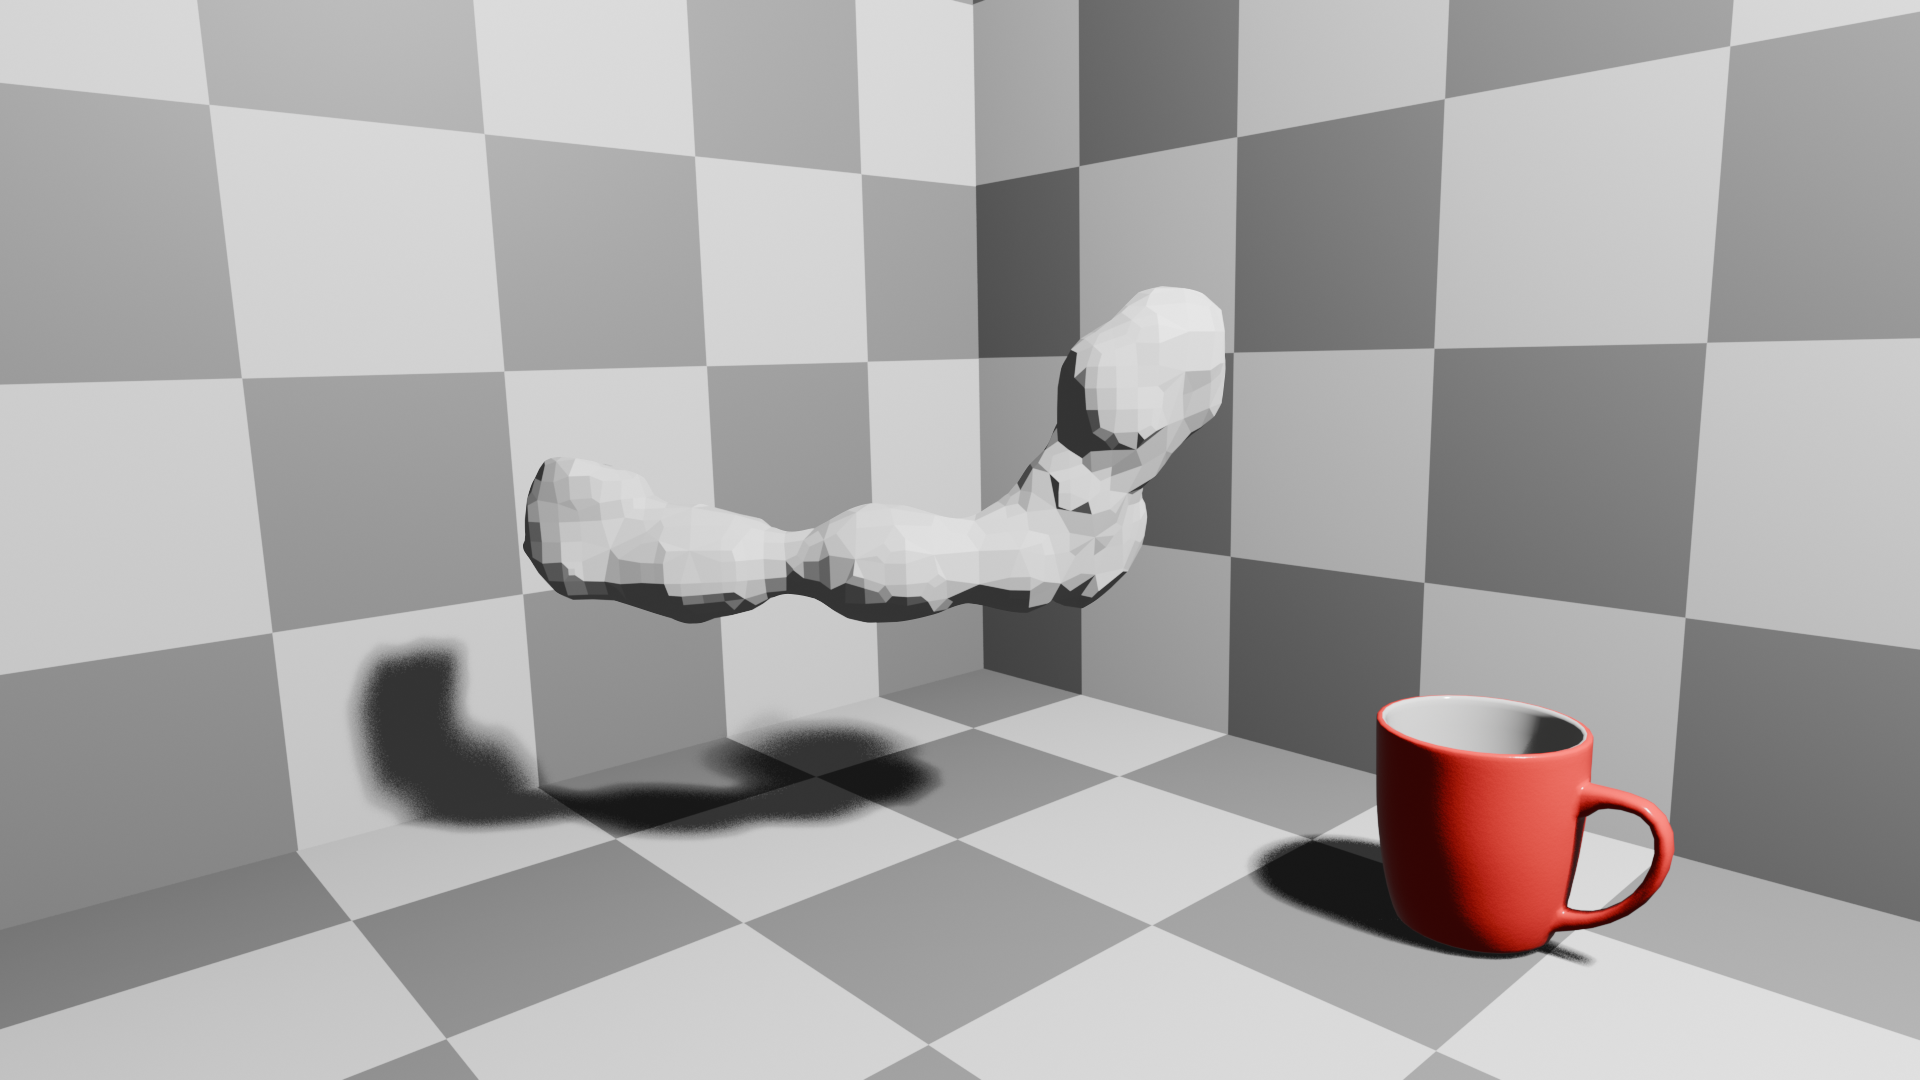
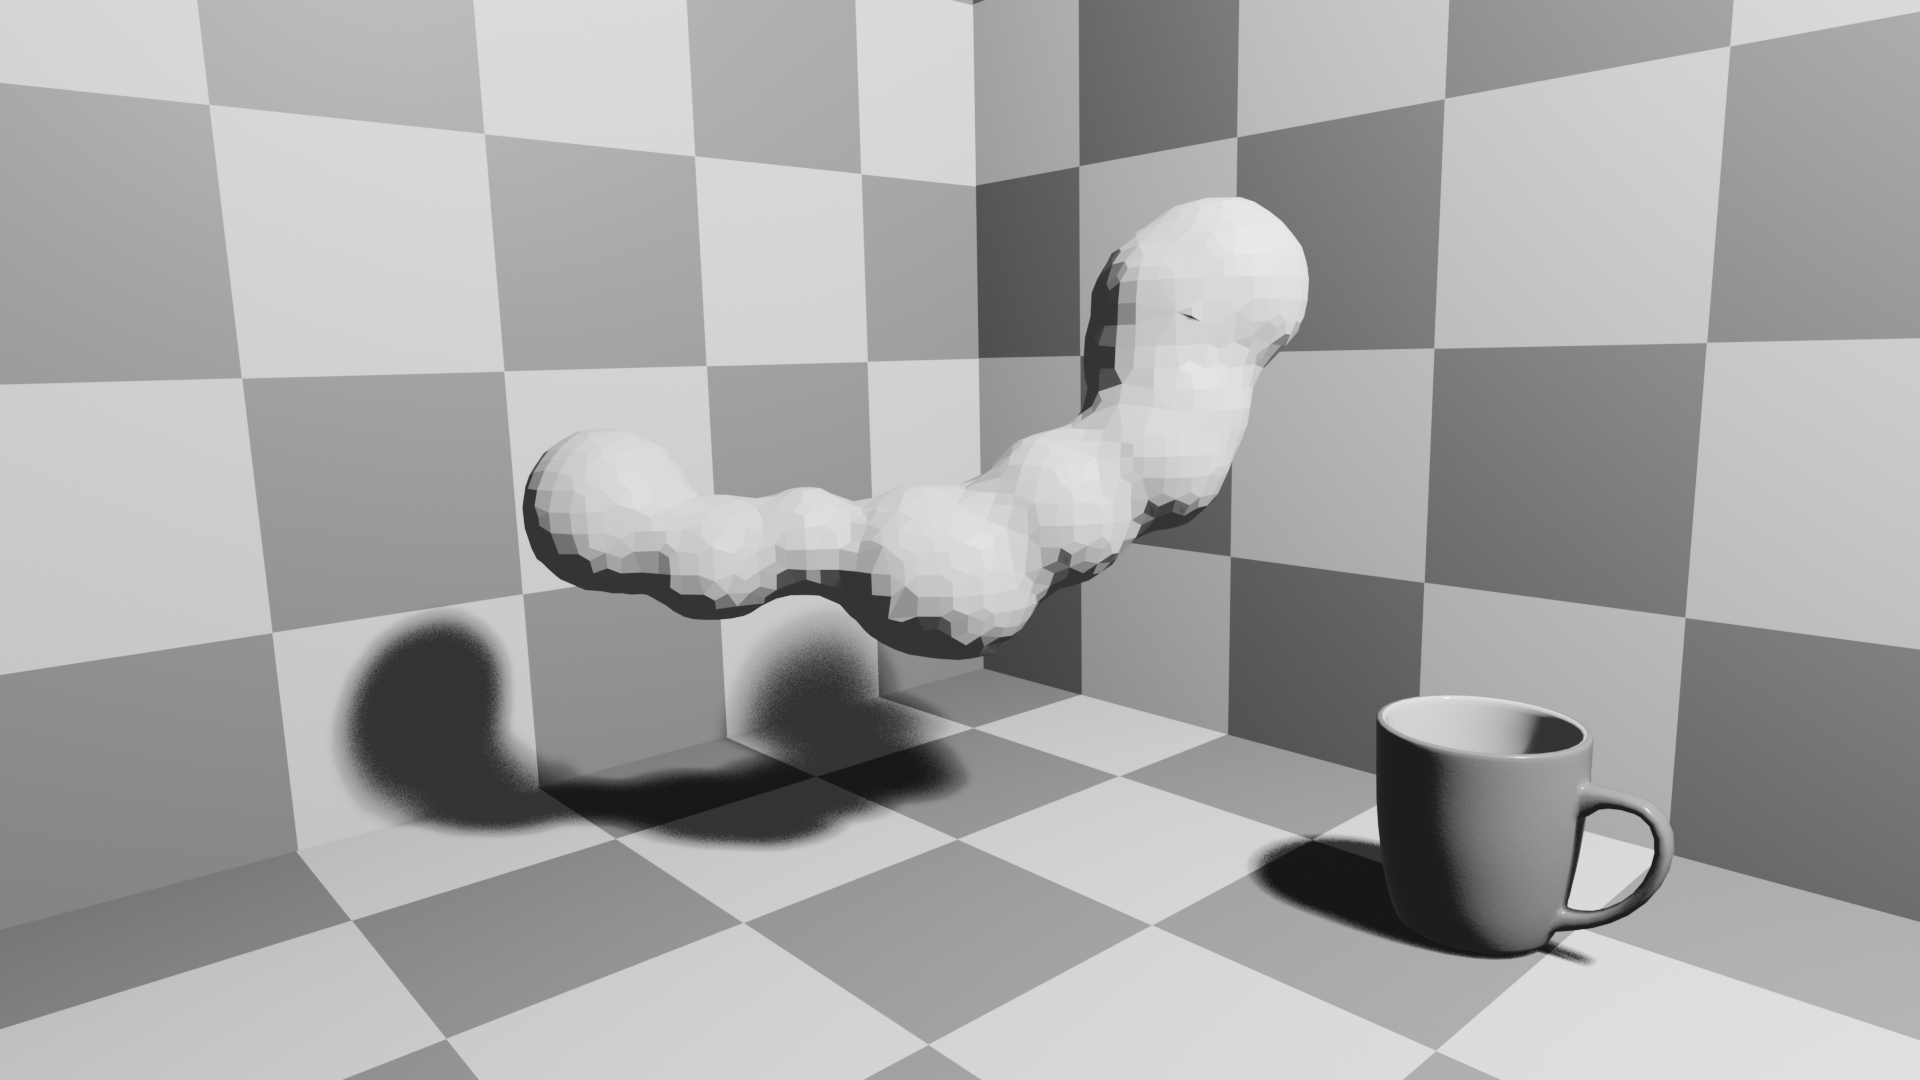
changed objA_shaA to b&w, deleted old comments, updated README

Changed region(s): [[0.1562, 0.1833, 0.6875, 0.7944], [0.7188, 0.6722, 0.875, 0.8861]]

diff --git a/src/js/core/timeline.js b/src/js/core/timeline.js
@@ -30,7 +30,7 @@ JSPsych Init, and onFinish (*sec_init)
 var jsPsych = initJsPsych({
     on_trial_finish: function(data) {
         // console.log(JSON.stringify(data));
-        data.pNo = workerID;
+        data.participant_id == workerID;
         
         // Process data through WAVE client if available
         if (window.waveClient) {

diff --git a/README.md b/README.md
@@ -1,15 +1,15 @@
-# JSPsych Experiment Template
+# JSPsych Experiment -- Alternative Forced Choice (AFC)
 
 <!-- Generate a new link for downstream repos using https://deploy-badge.vercel.app/vercel -->
 ![Vercel Deploy](https://deploy-badge.vercel.app/vercel/experiment-template) 
 
-A user-friendly template for creating online psychology experiments using JSPsych. This template is designed specifically for simple visual perception studies where participants respond to colored stimuli.
+A user-friendly template for creating online psychology experiments using JSPsych. This template is designed specifically for simple visual perception studies where participants are first presented a singular image, then given several image choices to choose from (to report what they saw)
 
 ## What This Template Does
 
 This experiment template:
-- Presents colored circles (blue or orange) to participants
-- Collects response times and accuracy data
+- Presents one image first, then asks participants to choose from several options what they saw
+- Collects response times and which image they reported seeing
 - Handles participant consent and demographics
 - Works with common research platforms (Prolific, MTurk, SONA)
 - Automatically saves all data to WAVE backend system
@@ -17,202 +17,31 @@ This experiment template:
 
 ## Getting Started
 
-### Creating Your Experiment from This Template
-
-1. **Use this template** - Click the green "Use this template" button at the top of this repository
-2. **Create a new repository** - Choose "Create a new repository" 
-3. **Name your experiment** - Give your repository a descriptive name
-4. **Clone your new repository** to your computer
-5. **Follow the setup steps below**
-
-### Prerequisites
-- A computer with a web browser (Chrome, Firefox, Safari, or Edge)
-- Basic text editing skills (preferably in a coding IDE such as VSCode)
-- **Python 3.10+** (for the automated setup notebook)
-- Your stimulus images (if different from the provided examples)
-- WAVE backend API keys with Experimentee and Researcher level permissions. (Generated via [Unkey](https://app.unkey.com/apis) by Prof. Wong).
-
-## 🚀 Quick Setup with Setup Notebook (Recommended)
-
-**The easiest way to set up your experiment is using our interactive Python notebook:**
-
-1. **Navigate to the tools directory**
-   ```bash
-   cd tools/
-   ```
-
-2. **Install [UV package manager](https://docs.astral.sh/uv/getting-started/installation/) and set up the environment**
-   ```bash
-   # Install uv (fast Python package manager)
-   curl -LsSf https://astral.sh/uv/install.sh | sh   # macOS/Linux
-   # or for Windows: powershell -c "irm https://astral.sh/uv/install.ps1 | iex"
-   ```
-
-   If you happen to be on Windows + PyCharm, you can follow the instructions [here](https://www.jetbrains.com/help/pycharm/uv.html),
-   otherwise, install your dependencies with 
-
-   ```
-   # Install dependencies
-   uv sync
-   ```
-
-3. **Configure your API keys**
-   - Copy `tools/.env.example` to `tools/.env`
-   - Add your WAVE API keys (RESEARCHER_API_KEY and EXPERIMENTEE_API_KEY)
-
-4. **Run the setup notebook**
-   - Open `tools/setup_experiment.ipynb` in VS Code, Jupyter Lab, or PyCharm
-   - Follow the step-by-step guided setup process in the notebook
-
-**The notebook automatically handles:**
-- ✅ Local experiment testing
-- ✅ Schema definition matching your data structure
-- ✅ WAVE backend experiment type creation
-- ✅ Tag management and organization
-- ✅ Integration testing and validation
-- ✅ Production experiment setup
-- ✅ Comprehensive error checking and guidance
-
-## Manual Setup (Alternative)
-
-### Quick Start (5 minutes)
-
-1. **Download the template**
-   - Download all files to your computer
-   - Keep all files in the same folder structure
-
-2. **Set up Node.js environment**
-   ```bash
-   # Install nvm - follow instructions at:
-   # https://github.com/nvm-sh/nvm
-
-   # Install and use the project's specified Node.js version
-   nvm use             # This reads .nvmrc and uses Node.js 20 LTS
-
-   # Install dependencies
-   npm install
-
-   # Start development server
-   npm run dev
-   ```
-
-3. **Test the basic experiment**
-   - Open `http://localhost:8080/` in your browser
-   - Go through the entire experiment to see how it works
-   - This helps you understand what participants will experience
-   - **For production**: Add WAVE URL parameters (see [WAVE Integration Guide](docs/setup/wave-integration.md))
-
-4. **Customize for your study**
-   - See the "Customization Guide" section below
-
-### Available Commands
-
-```bash
-npm run dev        # Start development server on localhost:8080
-npm run start      # Same as dev
-npm run lint       # Check JavaScript code quality
-npm run lint:fix   # Automatically fix linting issues
-```
-
-### Customization Guide
-
-#### Changing Your Stimuli
-1. **Add your images** to the `src/assets/stimuli/circles/` folder
-2. **Update the stimulus folder name** in `src/js/core/params.js`:
-   ```javascript
-   var stimFolder = 'src/assets/stimuli/your-folder-name/'
-   ```
-3. **Update the stimulus names** in `src/js/core/timeline.js` around line 168:
-   ```javascript
-   var poss_circle_colors = ["your-stim1", "your-stim2"];
-   ```
-
-#### Changing Experiment Text
-All text that participants see is in `src/js/content/instructions.js`:
-- **Welcome message**: Edit `welcometext` (line 5)
-- **Instructions**: Edit the `instrContent` array (line 48)
-- **Consent form**: Edit `consentForm()` function (line 65)
-- **Debrief questions**: Edit `debriefForm()` function (line 90)
-
-#### Setting Up for Your Platform
-In `src/js/core/params.js`, change these settings:
-
-**For Prolific:**
-```javascript
-var participantType = 'prolific';
-var completionCode = 'YOUR_COMPLETION_CODE';
-```
-
-**For MTurk:**
-```javascript
-var participantType = 'mturk';
-```
-
-**For SONA:**
-```javascript
-var participantType = 'sona';
-```
-
-**WARNING**: Make sure that the `participant_id` is captured correctly in the URL 
-for the WAVE Client to function correctly!
-
-### Testing Your Changes
-
-After making changes:
-1. **Save all files**
-2. **Refresh** your browser at `http://localhost:8080/`
-3. **Run through the entire experiment** to test your changes
-4. **Check the browser console** (press F12) for any error messages
-
-### Deploying Your Experiment
-
-Described here is a platform-agnostic guideline. This template is entirely static, without even
-environment variables as a dependency, for ease of deployment. Simply point your deployment
-platform towards the root directory (`index.html` is our entrypoint)
-
-**Recommended Setup:**
-- Configure your hosting platform to deploy from `release` branch, not `main`
-- Merge to `release` branch only when ready to deploy
-- Keeps development work separate from live experiments
-
-**Pre-Deployment Checklist:**
-1. **Test local logging**: Run experiment locally with WAVE URL parameters, verify data appears in console
-2. **Validate parameters**: Check that JSPsych logged parameters match your experiment configuration in `params.js`
-
-**Deploy Steps:**
-1. **Test the deployed version** by visiting your live URL both without and with full parameters
-- `key=YOUR_API_KEY` (⚠ **Use experimentee-level API key, NOT researcher-level**)
-- `experiment_id=YOUR_EXPERIMENT_ID` 
-- `participant_id=YOUR_PARTICIPANT_ID`
-2. **Share the URL** with your research platform, making sure that when it is distributed to participants it includes the above parameters:
-   ```
-   https://your-experiment.vercel.app/?key=YOUR_API_KEY&experiment_id=YOUR_EXPERIMENT_ID&participant_id=YOUR_PARTICIPANT_ID
-   ```
-
-Refer to Vercel/Cloudflare Pages/GitHub Pages documentation for platform-specific setup.
-
 ## File Structure Explained
 
 ```
-experiment-template/
+shadows_3afc/
 ├── index.html                    # Main experiment file
 ├── src/
 │   ├── js/
 │   │   ├── core/                # Core experiment logic
 │   │   │   ├── params.js        # Settings and timing parameters
 │   │   │   ├── timeline.js      # Main experiment flow
-│   │   │   └── trial.js         # Single trial logic
-│   │   ├── content/             # Experiment text content
+│   │   │   ├── trial.js         # Single trial logic
 │   │   │   └── instructions.js  # All participant-facing text
 │   │   ├── utils/               # Utility functions
-│   │   │   └── standard-functions.js
-│   │   └── integrations/        # External integrations  
+│   │   │   ├── standard-functions.js
+│   │   │   └── plugin-instructions.js
+│   │   └── integrations/        # External integrations
 │   │       └── wave-client.js   # WAVE backend integration
 │   ├── css/
 │   │   └── styles.css           # Visual styling
 │   └── assets/
 │       └── stimuli/             # Image assets
+│           ├── circles/         # Circle stimuli
+│           └── renders/         # Rendered object/shadow stimuli
 ├── docs/                        # Documentation
+├── tools/                       # Development tools
 └── package.json                 # Node.js dependencies
 ```
 
@@ -221,20 +50,3 @@ experiment-template/
 This template uses the WAVE backend system for data collection. **Important**: You must set up your experiment schema in WAVE before collecting data.
 
 📖 **See the [WAVE Integration Guide](docs/setup/wave-integration.md) for complete setup instructions**
-
-## Additional Documentation
-
-### Setup & Configuration
-- [Getting Started Guide](docs/setup/getting-started.md) - Detailed setup instructions
-- [WAVE Integration Guide](docs/setup/wave-integration.md) - Complete WAVE setup and troubleshooting
-
-### Customization  
-- [Customizing Stimuli](docs/customization/stimuli.md) - How to add and modify images
-- [Adjusting Parameters](docs/customization/parameters.md) - Timing, design, and platform settings  
-- [Basic Styling](docs/customization/styling.md) - Simple visual customizations
-
-### Help
-- [Troubleshooting](docs/troubleshooting.md) - Common issues and solutions
-
-### External Resources
-- [WAVE Client Repository](https://github.com/WAVE-Lab-Williams/wave-client/) - Full client documentation
